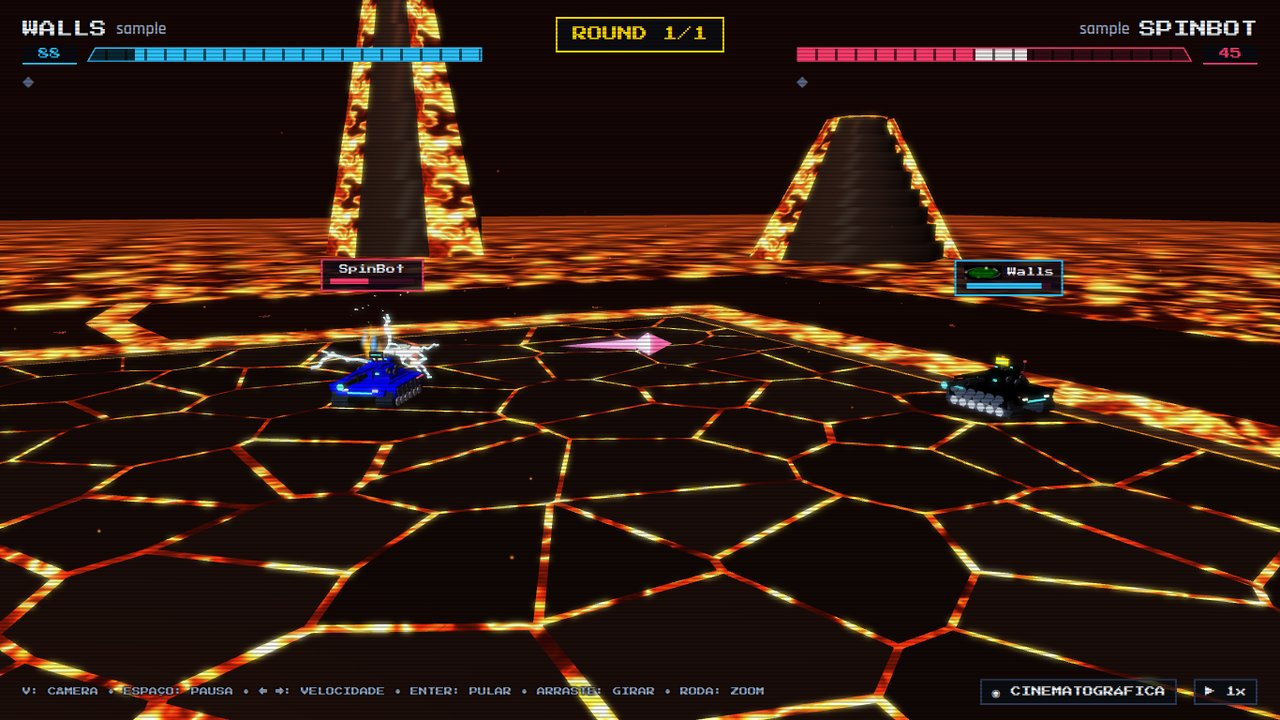
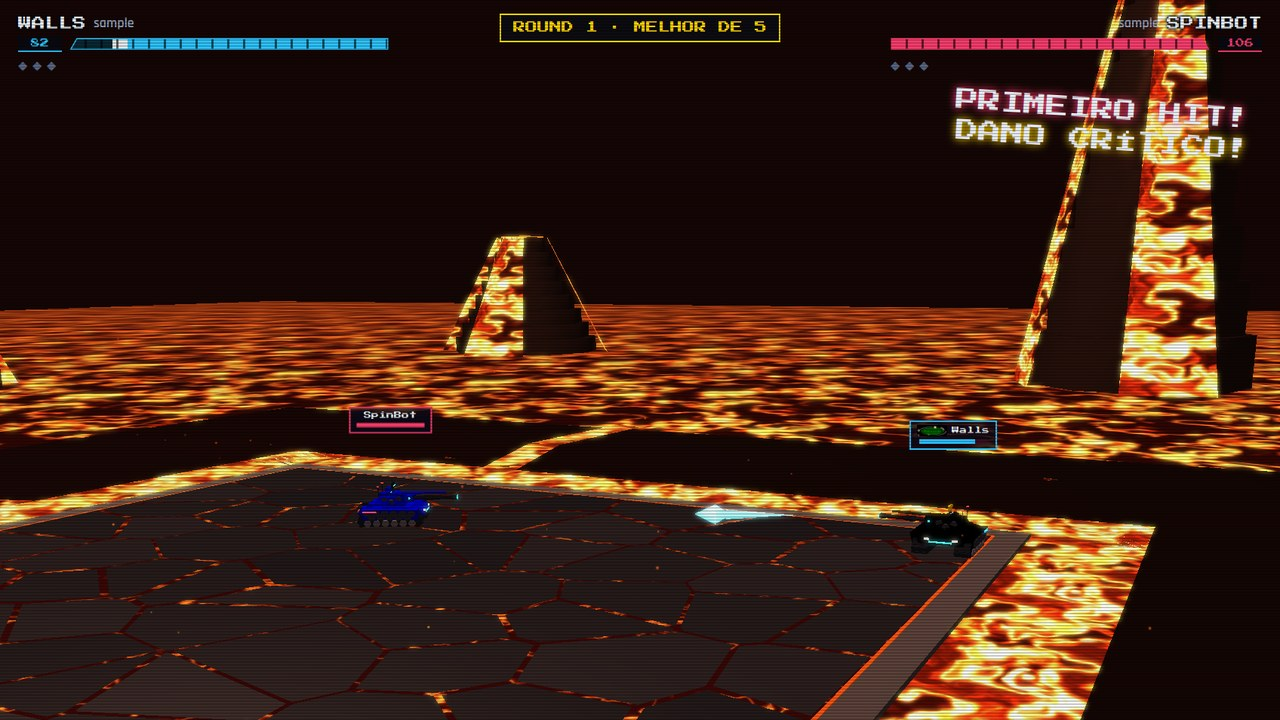
Arena de lava com piso cinza-escuro; READMEs com aviso de fase e novas imagens
- Placas de basalto em tons de cinza-escuro, com a lava só nas rachaduras
- READMEs (PT/EN): aviso de semifinal/final, sobrevoo com foco nos bichos, piso da lava
- Imagens novas: fase-final, batalha-vulcao e bicho-monkey (cauda em S)

diff --git a/src/widgets/scenes/BattleArena3D.java b/src/widgets/scenes/BattleArena3D.java
@@ -865,8 +865,8 @@ public class BattleArena3D extends StackPane {
 	private static final Image LAVA_TEXTURE = LavaTexture.create(0);
 	/** Far away the lava has cooled, only its veins glow */
 	private static final Image CRUST_TEXTURE = LavaTexture.create(0.45);
-	/** Under the field of the battle the lava glows little: the robots are what should stand out */
-	private static final Image FIELD_TEXTURE = LavaTexture.create(0.6, 0.5);
+	/** Under the field of the battle the lava glows little, it shows in the cracks of the gray plates: the robots are what should stand out */
+	private static final Image FIELD_TEXTURE = LavaTexture.floor(0.6, 0.5, 0x120403);
 	/** Units of the world one tile of the lava texture covers */
 	private static final double LAVA_TILE = 150;
 
@@ -1027,8 +1027,8 @@ public class BattleArena3D extends StackPane {
 		this.lava.setSelfIlluminationMap(LAVA_TEXTURE);
 		this.lava.setSpecularColor(Color.BLACK);
 
-		PhongMaterial basalt = new PhongMaterial(Color.web("#2a1c18"));
-		basalt.setSpecularColor(Color.web("#4a3028"));
+		PhongMaterial basalt = new PhongMaterial(Color.web("#4a4a52"));
+		basalt.setSpecularColor(Color.web("#6a6a72"));
 		basalt.setSpecularPower(10);
 		Box floor = new Box(w + 40, 4, h + 40);
 		floor.setMaterial(basalt);
@@ -1059,7 +1059,7 @@ public class BattleArena3D extends StackPane {
 		List<double[][]> cells = Voronoi.cells(seeds.toArray(new double[0][]), gaps, -w / 2, -h / 2, w / 2, h / 2);
 
 		// One mesh for each tone of basalt
-		String[] tones = { "#2a1c18", "#221613", "#33231e" };
+		String[] tones = { "#4a4a52", "#41414a", "#55555d" };
 		TriangleMesh[] plates = new TriangleMesh[tones.length];
 		for (int i = 0; i < plates.length; i++) {
 			plates[i] = new TriangleMesh();
@@ -1081,7 +1081,7 @@ public class BattleArena3D extends StackPane {
 		}
 		for (int i = 0; i < plates.length; i++) {
 			PhongMaterial basaltTone = new PhongMaterial(Color.web(tones[i]));
-			basaltTone.setSpecularColor(Color.web("#4a3028"));
+			basaltTone.setSpecularColor(Color.web("#6a6a72"));
 			basaltTone.setSpecularPower(10);
 			MeshView view = new MeshView(plates[i]);
 			view.setMaterial(basaltTone);

diff --git a/src/widgets/scenes/LavaTexture.java b/src/widgets/scenes/LavaTexture.java
@@ -38,18 +38,25 @@ final class LavaTexture {
 	}
 
 	/**
-	 * Lava that glows less: as the other, with all the colors darker
+	 * A floor of dark gray rock cracked by dimmer veins of magma: the lava with
+	 * the glow lowered and the blacks lifted to the gray
 	 *
 	 * @param brightness
-	 *            from 0 (black) to 1 (the same)
+	 *            of the veins, from 0 (none) to 1 (as the lava)
+	 * @param gray
+	 *            the color of the rock, 0xRRGGBB
 	 */
-	static Image create(double crust, double brightness) {
+	static Image floor(double crust, double brightness, int gray) {
 		int[] pixels = pixels(crust);
 		for (int i = 0; i < pixels.length; i++) {
-			int red = (int) (((pixels[i] >> 16) & 0xff) * brightness);
-			int green = (int) (((pixels[i] >> 8) & 0xff) * brightness);
-			int blue = (int) ((pixels[i] & 0xff) * brightness);
-			pixels[i] = 0xff000000 | red << 16 | green << 8 | blue;
+			int color = 0;
+			for (int shift = 16; shift >= 0; shift -= 8) {
+				int base = (gray >> shift) & 0xff;
+				int glow = (int) (((pixels[i] >> shift) & 0xff) * brightness);
+				// What the base leaves free, the glow fills
+				color |= Math.min(255, base + glow * (255 - base) / 255) << shift;
+			}
+			pixels[i] = 0xff000000 | color;
 		}
 		WritableImage image = new WritableImage(SIZE, SIZE);
 		image.getPixelWriter().setPixels(0, 0, SIZE, SIZE, PixelFormat.getIntArgbInstance(), pixels, 0, SIZE);

diff --git a/README.en.md b/README.en.md
@@ -65,7 +65,7 @@ Each battle takes place in an arena drawn at random (or a fixed one, if you pref
 <table>
 <tr>
 <td width="50%"><img src="docs/images/batalha-neon.jpg" alt="Neon Grid"><br><b>Neon Grid</b>: a neon city over a cyan grid, with roads and cars of light between the buildings.</td>
-<td width="50%"><img src="docs/images/batalha-vulcao.jpg" alt="Volcanic Forge"><br><b>Volcanic Forge</b>: lava, basalt and volcanoes.</td>
+<td width="50%"><img src="docs/images/batalha-vulcao.jpg" alt="Volcanic Forge"><br><b>Volcanic Forge</b>: lava, basalt and volcanoes. The battlefield floor is dark gray rock, far more subdued than the surrounding lava, so the robots stand out.</td>
 </tr>
 <tr>
 <td><img src="docs/images/arena-gelo-aurora.jpg" alt="Glacial Tundra"><br><b>Glacial Tundra</b>: ice crystals, falling snow, an aurora borealis that waves across the sky and a glacial sea with penguins.</td>
@@ -283,9 +283,13 @@ battle. Any key or click skips the animation.
 
 ![Robot presented in the arena](docs/images/apresentacao-3d.jpg)
 
-...then the two face each other, the camera flies over the arena, and each round starts with a 3-second countdown.
+...then the two face each other, the camera flies over the arena (stopping for 2 seconds on each critter it meets on the way), and each round starts with a 3-second countdown.
 
 ![The two robots face to face](docs/images/versus-3d.jpg)
+
+In **semifinals** and **finals** the program gives a warning: the name of the stage appears in gold in the intro (★ SEMIFINAL ★, ★ FINAL ★), the scoreboard shows the stage throughout the battle and the presenter announces the match.
+
+![Final warning in the arena](docs/images/fase-final.jpg)
 
 During the fight, each robot's energy bar sits at the top of the screen. The tanks use the colors the
 robot chose in its code, and shots come out in the color of whoever fired them. When a robot is

diff --git a/README.md b/README.md
@@ -65,7 +65,7 @@ Cada batalha acontece numa arena sorteada (ou numa arena fixa, se você preferir
 <table>
 <tr>
 <td width="50%"><img src="docs/images/batalha-neon.jpg" alt="Grade Neon"><br><b>Grade Neon</b>: uma cidade neon sobre uma grade ciano, com estradas e carros de luz entre os prédios.</td>
-<td width="50%"><img src="docs/images/batalha-vulcao.jpg" alt="Forja Vulcânica"><br><b>Forja Vulcânica</b>: lava, basalto e vulcões.</td>
+<td width="50%"><img src="docs/images/batalha-vulcao.jpg" alt="Forja Vulcânica"><br><b>Forja Vulcânica</b>: lava, basalto e vulcões. O piso do campo de batalha é de rocha cinza-escura, bem mais discreto que a lava ao redor, para os robôs se destacarem.</td>
 </tr>
 <tr>
 <td><img src="docs/images/arena-gelo-aurora.jpg" alt="Tundra Glacial"><br><b>Tundra Glacial</b>: cristais de gelo, neve caindo, uma aurora boreal que ondula no céu e um mar glacial com pinguins.</td>
@@ -283,10 +283,13 @@ aproxima a próxima batalha. Qualquer tecla ou clique pula a animação.
 
 ![Robô apresentado na arena](docs/images/apresentacao-3d.jpg)
 
-...depois os dois se encaram, a câmera sobrevoa a arena e cada round começa com uma contagem de
-3 segundos.
+...depois os dois se encaram, a câmera sobrevoa a arena (parando 2 segundos em cada bicho que encontra pelo caminho) e cada round começa com uma contagem de 3 segundos.
 
 ![Os dois robôs frente a frente](docs/images/versus-3d.jpg)
+
+Em **semifinais** e **finais** o programa avisa: o nome da fase aparece em dourado na abertura (★ SEMIFINAL ★, ★ FINAL ★), o placar mostra a fase durante toda a batalha e o apresentador anuncia a partida.
+
+![Aviso de final na arena](docs/images/fase-final.jpg)
 
 Durante a luta, a barra de energia de cada robô fica no alto da tela. Os tanques usam as cores
 que o robô escolheu no seu código, e os tiros saem na cor de quem atirou. Quando um robô é
